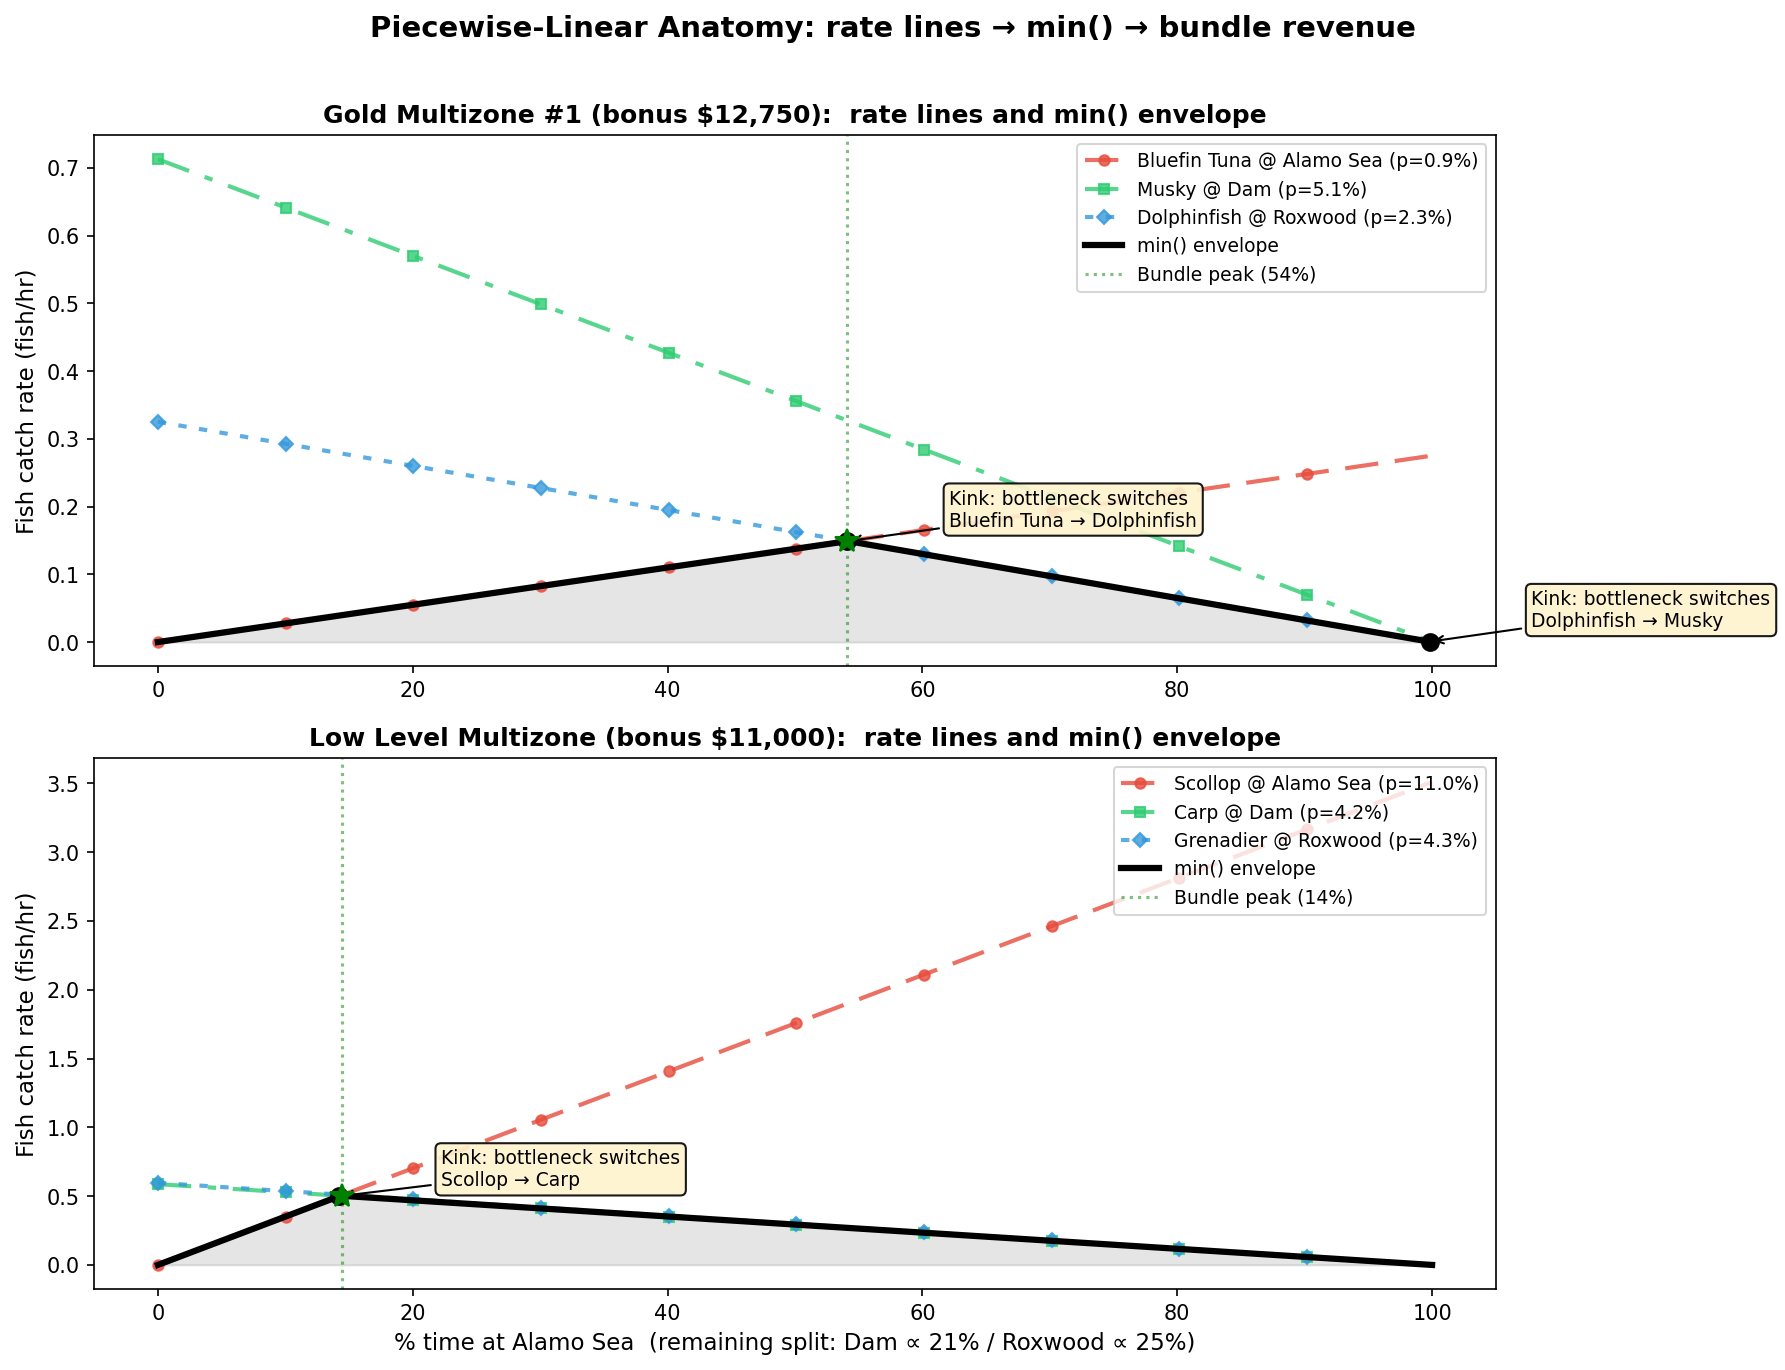
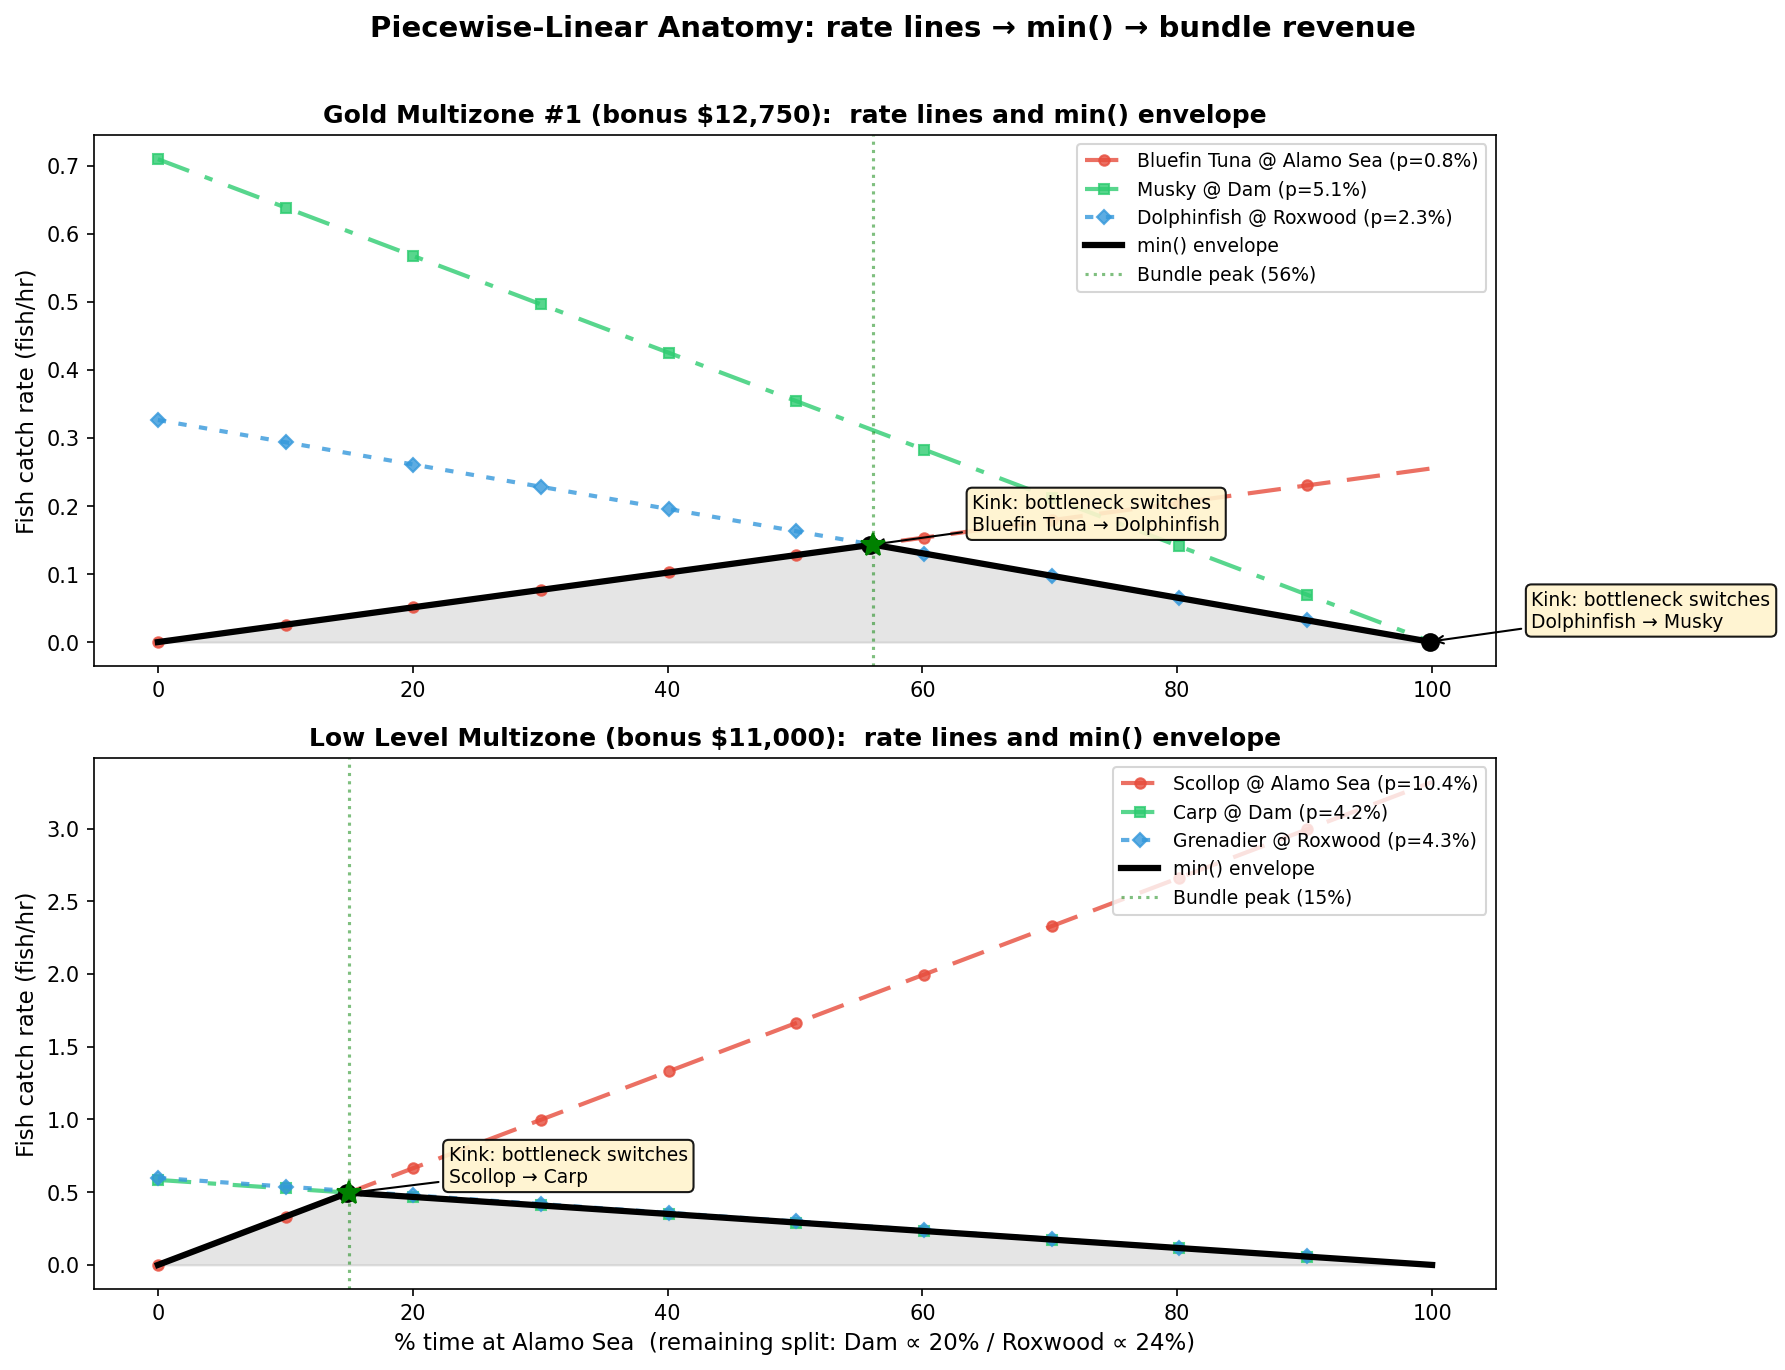
alamo log

diff --git a/sales/comparison.md b/sales/comparison.md
@@ -8,7 +8,7 @@ Bite wait by location: Alamo Sea 90s, Dam 90s, Roxwood 100s. Reel-in by location
 
 | Location  | Fish Caught | $/Fish observed | $/Fish model | Available Bundles                                     | $/Fish (bundles) | $/Fish total (obs) | $/Fish total (model) | $/Hour (model) |
 |-----------|------------:|----------------:|-------------:|-------------------------------------------------------|-----------------:|-------------------:|---------------------:|---------------:|
-| Alamo Sea |         463 |          $1,477 |       $1,411 | Gold Multizone #1, Alamo Starter, Low Level Multizone |             $678 |             $2,155 |           **$2,089** |        $66,561 |
+| Alamo Sea |         499 |          $1,480 |       $1,417 | Gold Multizone #1, Alamo Starter, Low Level Multizone |             $657 |             $2,137 |           **$2,074** |        $66,068 |
 | Dam       |         335 |          $1,664 |       $1,664 | Gold Multizone #1, Low Level Multizone                |             $369 |             $2,033 |           **$2,033** |        $62,556 |
 | Roxwood   |         256 |          $1,795 |       $1,859 | Gold Multizone #1, Low Level Multizone                |             $257 |             $2,052 |           **$2,116** |        $54,021 |
 
@@ -18,13 +18,13 @@ Optimal time split across locations to maximize total $/hour (considering both s
 
 | Location     | Time % (obs) | $/Fish (obs) | $/Hour (obs) | Time % (model) | $/Fish (model) | $/Hour (model) |
 |--------------|-------------:|-------------:|-------------:|---------------:|---------------:|---------------:|
-| Alamo Sea    |          54% |       $1,477 |      $54,610 |            50% |         $1,411 |        $52,524 |
-| Dam          |          21% |       $1,664 |      $51,206 |            23% |         $1,664 |        $51,206 |
-| Roxwood      |          25% |       $1,795 |      $45,823 |            27% |         $1,859 |        $47,455 |
-| **Combined** |         100% |              |  **$56,564** |           100% |                |    **$55,860** |
+| Alamo Sea    |          56% |       $1,480 |      $54,823 |            50% |         $1,417 |        $52,810 |
+| Dam          |          20% |       $1,664 |      $51,206 |            23% |         $1,664 |        $51,206 |
+| Roxwood      |          24% |       $1,795 |      $45,823 |            27% |         $1,859 |        $47,455 |
+| **Combined** |         100% |              |  **$56,592** |           100% |                |    **$55,877** |
 
-**Observed:** splitting yields **$56,564**/hour vs **$54,610**/hour best solo (+$1,954/hour, +3.6%).
-**Model:** splitting yields **$55,860**/hour vs **$52,524**/hour best solo (+$3,336/hour, +6.4%).
+**Observed:** splitting yields **$56,592**/hour vs **$54,823**/hour best solo (+$1,769/hour, +3.2%).
+**Model:** splitting yields **$55,877**/hour vs **$52,810**/hour best solo (+$3,066/hour, +5.8%).
 
 ## Bundle Details
 
@@ -32,14 +32,14 @@ Optimal time split across locations to maximize total $/hour (considering both s
 
 | Bundle        | Fish                                     |   Bonus | Avg Fish to Complete | Avg Time | Bonus/Fish | Catch Rates                                                                               |
 |---------------|------------------------------------------|--------:|---------------------:|---------:|-----------:|-------------------------------------------------------------------------------------------|
-| Alamo Starter | Morwhong, Southern Tuna, Silver Trevally | $10,000 |                   53 |   99 min |       $190 | Morwhong: 28/463 (6.0%) \| Southern Tuna: 11/463 (2.4%) \| Silver Trevally: 21/463 (4.5%) |
+| Alamo Starter | Morwhong, Southern Tuna, Silver Trevally | $10,000 |                   53 |   99 min |       $190 | Morwhong: 28/499 (5.6%) \| Southern Tuna: 12/499 (2.4%) \| Silver Trevally: 23/499 (4.6%) |
 
 ### Cross-Location
 
 | Bundle              | Fish                             |   Bonus | Avg Fish to Complete | Avg Time | Bonus/Fish | Catch Rates                                                                                                 |
 |---------------------|----------------------------------|--------:|---------------------:|---------:|-----------:|-------------------------------------------------------------------------------------------------------------|
-| Gold Multizone #1   | Bluefin Tuna, Musky, Dolphinfish | $12,750 |                  178 |  357 min |        $72 | Bluefin Tuna @ Alamo Sea: 4/463 (0.9%) \| Musky @ Dam: 17/335 (5.1%) \| Dolphinfish @ Roxwood: 6/256 (2.3%) |
-| Low Level Multizone | Scollop, Carp, Grenadier         | $11,000 |                   56 |  118 min |       $195 | Scollop @ Alamo Sea: 51/463 (11.0%) \| Carp @ Dam: 14/335 (4.2%) \| Grenadier @ Roxwood: 11/256 (4.3%)      |
+| Gold Multizone #1   | Bluefin Tuna, Musky, Dolphinfish | $12,750 |                  187 |  374 min |        $68 | Bluefin Tuna @ Alamo Sea: 4/499 (0.8%) \| Musky @ Dam: 17/335 (5.1%) \| Dolphinfish @ Roxwood: 6/256 (2.3%) |
+| Low Level Multizone | Scollop, Carp, Grenadier         | $11,000 |                   57 |  119 min |       $194 | Scollop @ Alamo Sea: 52/499 (10.4%) \| Carp @ Dam: 14/335 (4.2%) \| Grenadier @ Roxwood: 11/256 (4.3%)      |
 
 ## Drop Rate Analysis
 
@@ -50,54 +50,54 @@ Tier drop rates are consistent across locations, suggesting a fixed game mechani
 | Tier        | Alamo Sea |   Dam | Roxwood | Average |
 |-------------|----------:|------:|--------:|--------:|
 | xxxx purple |      0.2% |  0.0% |    0.4% |    0.2% |
-| xxx         |      7.1% | 10.1% |    9.0% |    8.8% |
-| xx          |     26.3% | 28.1% |   24.6% |   26.3% |
-| x           |     65.0% | 61.8% |   65.6% |   64.1% |
+| xxx         |      7.2% | 10.1% |    9.0% |    8.8% |
+| xx          |     27.5% | 28.1% |   24.6% |   26.7% |
+| x           |     63.9% | 61.8% |   65.6% |   63.8% |
 
 ### Within-Tier Weights
 
 Observed frequencies vs model (percentage template) per fish.
 Model uses shared percentage templates across all locations (5% granularity).
 
-#### Alamo Sea — xxx (3 fish, 33 observed)
+#### Alamo Sea — xxx (3 fish, 36 observed)
 
 | Fish            | Count | Observed % | Weight | Weight % | Model % | Model % (norm) | Residual |
 |-----------------|------:|-----------:|-------:|---------:|--------:|---------------:|---------:|
-| Silver Trevally |    21 |      63.6% |     10 |    62.5% |     55% |          55.0% |     +2.9 |
-| Great Barracuda |     8 |      24.2% |      3 |    18.8% |     30% |          30.0% |     -1.9 |
-| Bluefin Tuna    |     4 |      12.1% |      3 |    18.8% |     15% |          15.0% |     -1.0 |
+| Silver Trevally |    23 |      63.9% |     10 |    62.5% |     55% |          55.0% |     +3.2 |
+| Great Barracuda |     9 |      25.0% |      3 |    18.8% |     30% |          30.0% |     -1.8 |
+| Bluefin Tuna    |     4 |      11.1% |      3 |    18.8% |     15% |          15.0% |     -1.4 |
 
-Weight fit: χ² = 1.31, df = 2, p = 0.519 — excellent
-Model fit (55%/30%/15%): χ² = 0.99, p = 0.608 — excellent
+Weight fit: χ² = 1.88, df = 2, p = 0.390 — good
+Model fit (55%/30%/15%): χ² = 1.18, p = 0.554 — excellent
 
-#### Alamo Sea — xx (6 fish, 122 observed)
+#### Alamo Sea — xx (6 fish, 137 observed)
 
 | Fish             | Count | Observed % | Weight | Weight % | Model % | Model % (norm) | Residual |
 |------------------|------:|-----------:|-------:|---------:|--------:|---------------:|---------:|
-| Southern Garfish |    32 |      26.2% |      9 |    23.1% |     25% |          25.0% |     +1.5 |
-| Trout            |    26 |      21.3% |      9 |    23.1% |     20% |          20.0% |     +1.6 |
-| Blue Warehou     |    25 |      20.5% |      9 |    23.1% |     20% |          20.0% |     +0.6 |
-| Golden Perch     |    15 |      12.3% |      4 |    10.3% |     15% |          15.0% |     -3.3 |
-| Snow Crab        |    13 |      10.7% |      4 |    10.3% |     10% |          10.0% |     +0.8 |
-| Southern Tuna    |    11 |       9.0% |      4 |    10.3% |     10% |          10.0% |     -1.2 |
+| Southern Garfish |    35 |      25.5% |      2 |    22.2% |     25% |          25.0% |     +0.8 |
+| Trout            |    30 |      21.9% |      2 |    22.2% |     20% |          20.0% |     +2.6 |
+| Blue Warehou     |    27 |      19.7% |      2 |    22.2% |     20% |          20.0% |     -0.4 |
+| Snow Crab        |    17 |      12.4% |      1 |    11.1% |     15% |          15.0% |     -3.6 |
+| Golden Perch     |    16 |      11.7% |      1 |    11.1% |     10% |          10.0% |     +2.3 |
+| Southern Tuna    |    12 |       8.8% |      1 |    11.1% |     10% |          10.0% |     -1.7 |
 
-Weight fit: χ² = 1.74, df = 5, p = 0.884 — excellent
-Model fit (25%/20%/20%/15%/10%/10%): χ² = 0.96, p = 0.966 — excellent
+Weight fit: χ² = 2.01, df = 5, p = 0.848 — excellent
+Model fit (25%/20%/20%/15%/10%/10%): χ² = 1.48, p = 0.915 — excellent
 
-#### Alamo Sea — x (7 fish, 301 observed)
+#### Alamo Sea — x (7 fish, 319 observed)
 
 | Fish      | Count | Observed % | Weight | Weight % | Model % | Model % (norm) | Residual |
 |-----------|------:|-----------:|-------:|---------:|--------:|---------------:|---------:|
-| Albacore  |    69 |      22.9% |      7 |    22.6% |     20% |          21.1% |     +5.6 |
-| Scollop   |    51 |      16.9% |      5 |    16.1% |     15% |          15.8% |     +3.5 |
-| Halibut   |    47 |      15.6% |      5 |    16.1% |     15% |          15.8% |     -0.5 |
-| Broadbill |    47 |      15.6% |      5 |    16.1% |     15% |          15.8% |     -0.5 |
-| Redfish   |    31 |      10.3% |      3 |     9.7% |     10% |          10.5% |     -0.7 |
-| Morwhong  |    28 |       9.3% |      3 |     9.7% |     10% |          10.5% |     -3.7 |
-| Flathead  |    28 |       9.3% |      3 |     9.7% |     10% |          10.5% |     -3.7 |
+| Albacore  |    76 |      23.8% |     10 |    23.3% |     20% |          21.1% |     +8.8 |
+| Scollop   |    52 |      16.3% |      7 |    16.3% |     15% |          15.8% |     +1.6 |
+| Halibut   |    51 |      16.0% |      7 |    16.3% |     15% |          15.8% |     +0.6 |
+| Broadbill |    49 |      15.4% |      7 |    16.3% |     15% |          15.8% |     -1.4 |
+| Redfish   |    35 |      11.0% |      4 |     9.3% |     10% |          10.5% |     +1.4 |
+| Morwhong  |    28 |       8.8% |      4 |     9.3% |     10% |          10.5% |     -5.6 |
+| Flathead  |    28 |       8.8% |      4 |     9.3% |     10% |          10.5% |     -5.6 |
 
-Weight fit: χ² = 0.45, df = 6, p = 0.998 — excellent
-Model fit (20%/15%/15%/15%/10%/10%/10%/5%): χ² = 1.64, p = 0.950 — excellent
+Weight fit: χ² = 1.37, df = 6, p = 0.968 — excellent
+Model fit (20%/15%/15%/15%/10%/10%/10%/5%): χ² = 3.18, p = 0.786 — excellent
 
 #### Dam — xxx (3 fish, 34 observed)
 

diff --git a/sales/alamo.md b/sales/alamo.md
@@ -1,27 +1,27 @@
 # Alamo Sea
 
-7 batches sold
+9 batches sold
 
 | Fish             |   Count |        % | Stars       | Bundles             |
 |------------------|--------:|---------:|-------------|---------------------|
 | 3 Eyed Fish      |       1 |     0.2% | xxxx purple |                     |
-| Silver Trevally  |      21 |     4.5% | xxx         | Alamo Starter       |
-| Great Barracuda  |       8 |     1.7% | xxx         |                     |
-| Bluefin Tuna     |       4 |     0.9% | xxx         | Gold Multizone #1   |
-| Southern Garfish |      32 |     6.9% | xx          |                     |
-| Trout            |      26 |     5.6% | xx          |                     |
-| Blue Warehou     |      25 |     5.4% | xx          | Silver Multizone #1 |
-| Golden Perch     |      15 |     3.2% | xx          |                     |
-| Snow Crab        |      13 |     2.8% | xx          |                     |
-| Southern Tuna    |      11 |     2.4% | xx          | Alamo Starter       |
-| Albacore         |      69 |    14.9% | x           |                     |
-| Scollop          |      51 |    11.0% | x           | Low Level Multizone |
-| Halibut          |      47 |    10.2% | x           |                     |
-| Broadbill        |      47 |    10.2% | x           | Bronze Multizone #1 |
-| Redfish          |      31 |     6.7% | x           |                     |
-| Morwhong         |      28 |     6.0% | x           | Alamo Starter       |
-| Flathead         |      28 |     6.0% | x           |                     |
+| Silver Trevally  |      23 |     4.6% | xxx         | Alamo Starter       |
+| Great Barracuda  |       9 |     1.8% | xxx         |                     |
+| Bluefin Tuna     |       4 |     0.8% | xxx         | Gold Multizone #1   |
+| Southern Garfish |      35 |     7.0% | xx          |                     |
+| Trout            |      30 |     6.0% | xx          |                     |
+| Blue Warehou     |      27 |     5.4% | xx          | Silver Multizone #1 |
+| Snow Crab        |      17 |     3.4% | xx          |                     |
+| Golden Perch     |      16 |     3.2% | xx          |                     |
+| Southern Tuna    |      12 |     2.4% | xx          | Alamo Starter       |
+| Albacore         |      76 |    15.2% | x           |                     |
+| Scollop          |      52 |    10.4% | x           | Low Level Multizone |
+| Halibut          |      51 |    10.2% | x           |                     |
+| Broadbill        |      49 |     9.8% | x           | Bronze Multizone #1 |
+| Redfish          |      35 |     7.0% | x           |                     |
+| Morwhong         |      28 |     5.6% | x           | Alamo Starter       |
+| Flathead         |      28 |     5.6% | x           |                     |
 | Southern Tuna    |       3 |     0.6% | ?           |                     |
 | Esky             |       2 |     0.4% | ?           |                     |
 | Patch Kit        |       1 |     0.2% | ?           |                     |
-| **Total**        | **463** | **100%** |             |                     |
+| **Total**        | **499** | **100%** |             |                     |

diff --git a/sales/weights.md b/sales/weights.md
@@ -9,7 +9,7 @@ Average $/gram per location, weighted by drop rates. Uses known weights where av
 
 | # | Location | $/g (sale) | $/g (w/ bundles) | Avg Weight | Avg $/fish | Bundle $/fish | g/hour | $/hour (sale) | $/hour (total) | Fish | Coverage |
 |--:|----------|----------:|----------------:|-----------:|-----------:|--------------:|-------:|--------------:|---------------:|-----:|---------:|
-| 1 | Alamo Sea | 4.41 | **6.44** | 335g | $1,477 | $678 | 10,668 | $47,065 | $68,670 | 463 | 98% |
+| 1 | Alamo Sea | 4.41 | **6.36** | 336g | $1,481 | $657 | 10,704 | $47,185 | $68,105 | 499 | 99% |
 | 2 | Roxwood | 5.34 | **6.11** | 331g | $1,769 | $257 | 8,464 | $45,178 | $51,744 | 256 | 99% |
 | 3 | Dam | 4.85 | **5.92** | 343g | $1,664 | $369 | 10,563 | $51,206 | $62,556 | 335 | 100% |
 
@@ -17,22 +17,22 @@ Average $/gram per location, weighted by drop rates. Uses known weights where av
 
 | Fish | $/fish | Weight | $/g | Drop % | Stars | Known |
 |------|-------:|-------:|----:|-------:|-------|-------|
-| Silver Trevally | $2,000 | 400g | 5.00 | 4.5% | xxx | est. |
-| Great Barracuda | $2,000 | 400g | 5.00 | 1.7% | xxx | est. |
-| Albacore | $1,350 | 300g | 4.50 | 14.9% | x | est. |
-| Scollop | $1,350 | 300g | 4.50 | 11.0% | x | est. |
+| Silver Trevally | $2,000 | 400g | 5.00 | 4.6% | xxx | est. |
+| Great Barracuda | $2,000 | 400g | 5.00 | 1.8% | xxx | est. |
+| Albacore | $1,350 | 300g | 4.50 | 15.2% | x | est. |
+| Scollop | $1,350 | 300g | 4.50 | 10.4% | x | est. |
 | Halibut | $1,350 | 300g | 4.50 | 10.2% | x | est. |
-| Broadbill | $1,350 | 300g | 4.50 | 10.2% | x | est. |
-| Redfish | $1,350 | 300g | 4.50 | 6.7% | x | est. |
-| Morwhong | $1,350 | 300g | 4.50 | 6.0% | x | est. |
-| Flathead | $1,350 | 300g | 4.50 | 6.0% | x | est. |
-| Southern Garfish | $1,650 | 400g | 4.12 | 6.9% | xx | est. |
-| Trout | $1,650 | 400g | 4.12 | 5.6% | xx | est. |
+| Broadbill | $1,350 | 300g | 4.50 | 9.8% | x | est. |
+| Redfish | $1,350 | 300g | 4.50 | 7.0% | x | est. |
+| Morwhong | $1,350 | 300g | 4.50 | 5.6% | x | est. |
+| Flathead | $1,350 | 300g | 4.50 | 5.6% | x | est. |
+| Southern Garfish | $1,650 | 400g | 4.12 | 7.0% | xx | est. |
+| Trout | $1,650 | 400g | 4.12 | 6.0% | xx | est. |
 | Blue Warehou | $1,650 | 400g | 4.12 | 5.4% | xx | est. |
+| Snow Crab | $1,650 | 400g | 4.12 | 3.4% | xx | est. |
 | Golden Perch | $1,650 | 400g | 4.12 | 3.2% | xx | est. |
-| Snow Crab | $1,650 | 400g | 4.12 | 2.8% | xx | est. |
 | Southern Tuna | $1,650 | 400g | 4.12 | 2.4% | xx | est. |
-| Bluefin Tuna | $2,000 | 500g | 4.00 | 0.9% | xxx | yes |
+| Bluefin Tuna | $2,000 | 500g | 4.00 | 0.8% | xxx | yes |
 
 ### Roxwood — Fish by $/gram
 

diff --git a/sales/alamo-log.md b/sales/alamo-log.md
@@ -90,7 +90,7 @@ Patch Kit	1
 Silver Trevally	4
 Morwhong	5
 Southern Tuna   3
---sold6
+--sold
 Broadbill	5
 Morwhong	1
 Scollop	4
@@ -107,3 +107,18 @@ Halibut	4
 Southern Garfish	2
 Golden Perch	3
 Flathead	1
+--sold
+Blue Warehou	2
+Albacore	7
+Halibut	4
+Scollop	1
+Trout	4
+Redfish	4
+Silver Trevally	2
+Snow Crab	4
+Southern Tuna	1
+Great Barracuda	1
+Broadbill	2
+Southern Garfish	3
+Golden Perch	1
+--sold
